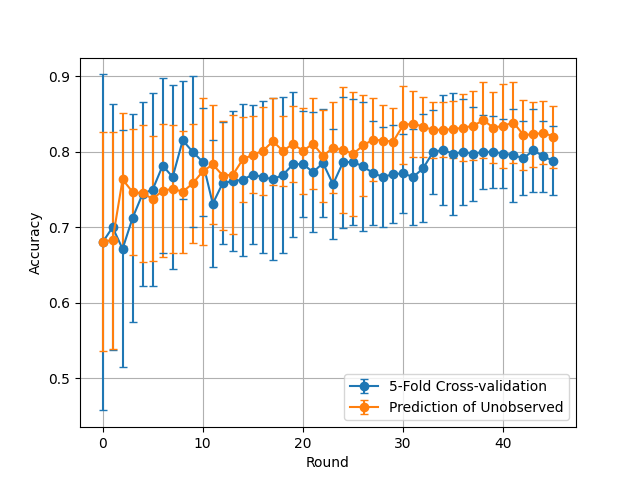
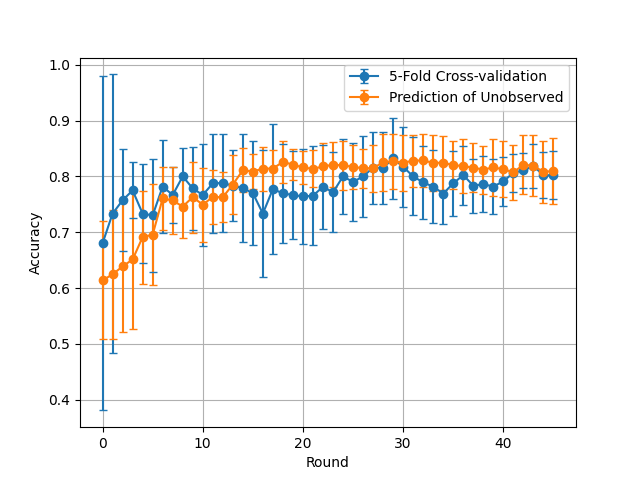
Implemented uncertain sampling and density based sampling

diff --git a/homework1/DensityBasedSamplingSimulation.py b/homework1/DensityBasedSamplingSimulation.py
@@ -1,0 +1,54 @@
+from sklearn.naive_bayes import GaussianNB
+
+import Parser
+from ClassificationSimulation import ClassificationSimulation
+import numpy as np
+
+
+class DensityBasedSamplingSimulation(ClassificationSimulation):
+    def __init__(self, X, y, base_learner, seed_num, inform_fn, sim_fn, beta):
+        super().__init__(X, y, base_learner, seed_num)
+        self.inform_fn = inform_fn
+        self.sim_fn = sim_fn
+        self.beta = beta
+        self.sim_mat = [[self.sim_fn(x, x_) for x in X] for x_ in X]
+
+    def compute_density(self, i):
+        unobserved_density = [self.sim_mat[i][j] for j in self.unobserved]
+        avg_density = sum(unobserved_density) / (len(self.unobserved))
+        return avg_density ** self.beta
+
+    def increment_train(self):
+        X_train = [self.X[i] for i in self.train]
+        y_train = [self.y[i] for i in self.train]
+        X_test = [self.X[i] for i in self.unobserved]
+        test_inform = self.inform_fn(X_train, y_train, X_test,
+                                     self.base_learner)
+        print(test_inform)
+        weighted_inform = map(
+            lambda i: self.compute_density(self.unobserved[i]) * test_inform[i],
+            range(len(self.unobserved)))
+        max_inform_index = max(enumerate(weighted_inform), key=lambda x: x[1])[
+            0]
+        choice = self.unobserved.pop(max_inform_index)
+        self.train.append(choice)
+
+
+if __name__ == "__main__":
+    X_, y_ = Parser.parse_csv("../classification.csv", 2)
+
+
+    def least_confident(x_train, y_train, x_test, learner):
+        learner.fit(x_train, y_train)
+        test_proba = learner.predict_proba(x_test)
+        return list(map(lambda x: 1-max(x),test_proba))
+    def sim_exp_euclidean_distance(x_1,x_2):
+        diff_sum = 0
+        for i in range(len(x_1)):
+            diff_sum += (x_1[i]-x_2[i])**2
+        return 1/(np.exp(diff_sum**0.5))
+
+    cs = DensityBasedSamplingSimulation(X_, y_, GaussianNB(), 10, least_confident,sim_exp_euclidean_distance,0.5)
+    print(cs.train)
+    cs.increment_train()
+    print(cs.train)

diff --git a/homework1/UncertainSamplingClassificationSimulation.py b/homework1/UncertainSamplingClassificationSimulation.py
@@ -1,1 +1,42 @@
-import ClassificationSimulation
+from sklearn.naive_bayes import GaussianNB
+
+import Parser
+from ClassificationSimulation import ClassificationSimulation
+
+class UncertainSamplingClassificationSimulation(ClassificationSimulation):
+    def increment_train(self):
+        """
+        Add the most uncertain observation to the train data
+        :return:
+        """
+        min_index = self.least_confident()
+        choice = self.unobserved.pop(min_index)
+        self.train.append(choice)
+
+    def least_confident(self):
+        X_train = [self.X[i] for i in self.train]
+        y_train = [self.y[i] for i in self.train]
+        X_test = [self.X[i] for i in self.unobserved]
+        self.base_learner.fit(X_train,y_train)
+        test_proba = self.base_learner.predict_proba(X_test)
+        # choose based on minmax prediction proba
+        min_proba = 1
+        min_index = -1
+        for i in range(len(X_test)):
+            proba = max(test_proba[i])
+            if proba < min_proba:
+                min_proba = proba
+                min_index = i
+        # print(min_proba)
+        return min_index
+
+
+if __name__ == '__main__':
+    X_, y_ = Parser.parse_csv("../classification.csv", 2)
+    cs = UncertainSamplingClassificationSimulation(X_, y_, GaussianNB(), 5)
+    print(cs.cross_validation_on_train(5))
+    print(cs.predict())
+    print(cs.train)
+    print(cs.unobserved)
+    cs.increment_train()
+    print(cs.train)
